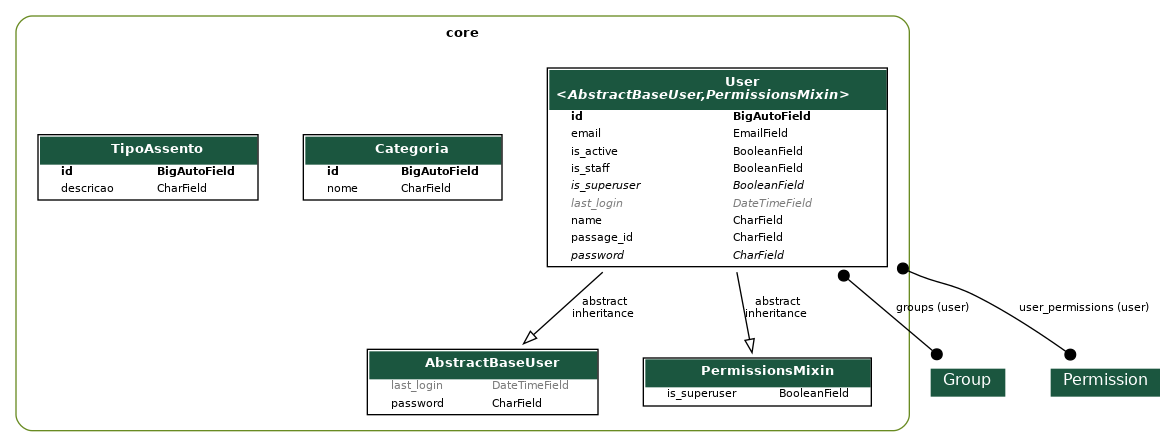
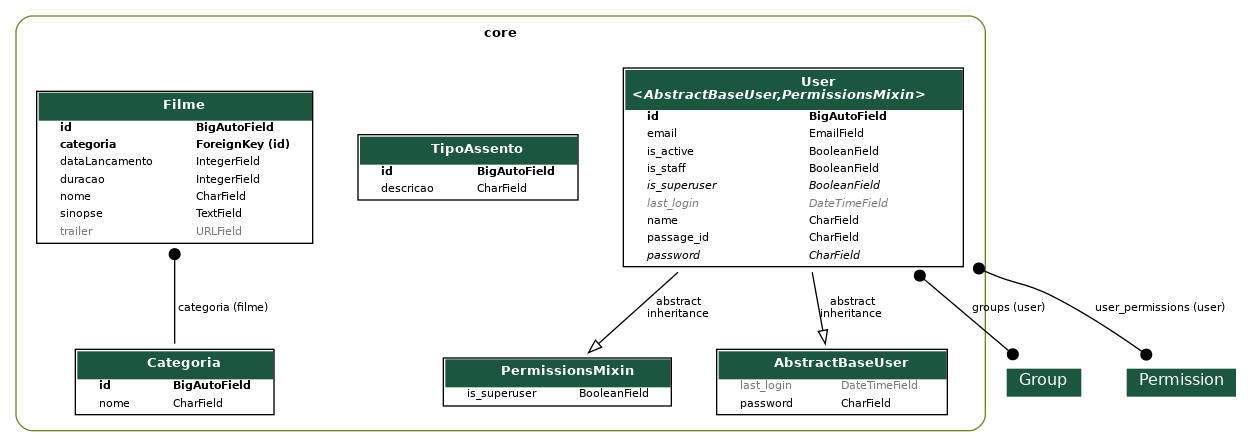
CHORE: Migração filme

diff --git a/core/migrations/0004_filme.py b/core/migrations/0004_filme.py
@@ -1,0 +1,26 @@
+# Generated by Django 5.0.6 on 2024-10-01 17:16
+
+import django.db.models.deletion
+from django.db import migrations, models
+
+
+class Migration(migrations.Migration):
+
+    dependencies = [
+        ("core", "0003_tipoassento"),
+    ]
+
+    operations = [
+        migrations.CreateModel(
+            name="Filme",
+            fields=[
+                ("id", models.BigAutoField(auto_created=True, primary_key=True, serialize=False, verbose_name="ID")),
+                ("nome", models.CharField(max_length=255)),
+                ("duracao", models.IntegerField()),
+                ("dataLancamento", models.IntegerField()),
+                ("sinopse", models.TextField()),
+                ("trailer", models.URLField(blank=True, null=True)),
+                ("categoria", models.ForeignKey(on_delete=django.db.models.deletion.PROTECT, to="core.categoria")),
+            ],
+        ),
+    ]
